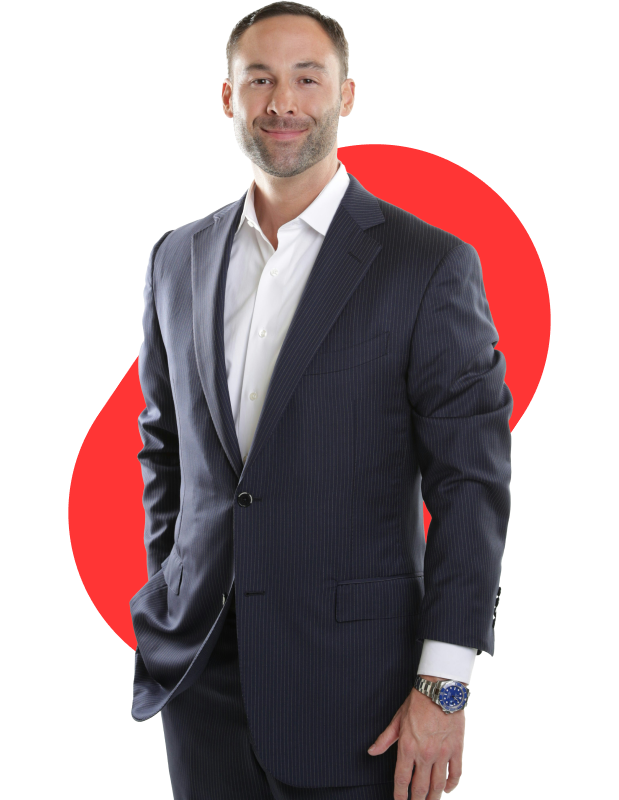
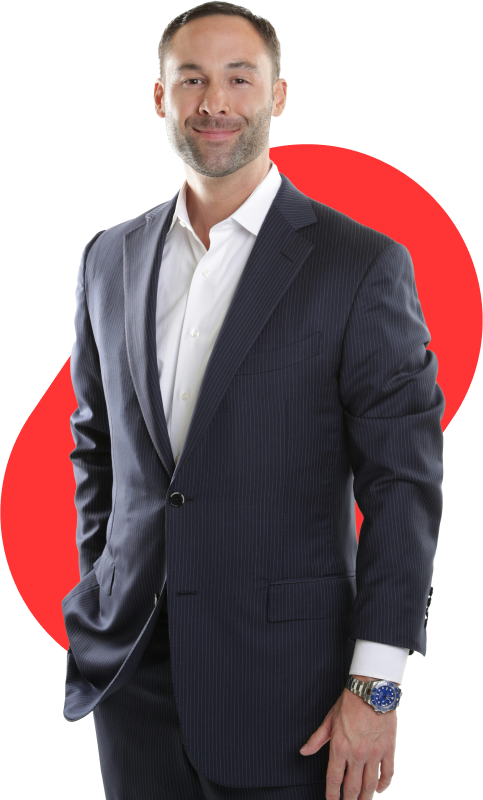
0725 금호건설 연혁

diff --git a/kumho/contents/ceo.html b/kumho/contents/ceo.html
@@ -143,19 +143,16 @@
                             </div>
                             <div class="txt">
                                 <p>
-                                    금호건설은 1967년 역사를 시작하여 반세기가 넘는 시간 동안대한민국 건설역사를 함께 만들어 온 국내 대표 건설사입니다.<br>
+                                    금호건설은 1967년 역사를 시작하여 반세기가 넘는 시간 동안 대한민국 건설역사를 함께 만들어 온 국내 대표 건설사입니다.<br>
                                     <br>
-                                    주거브랜드인 어울림, 리첸시아를 비롯하여 건축, 토목, 플랜트, 환경에 이르기까지 시공 전 분야에서
-                                    다양한 포트폴리오를 구성하며 고객 만족과 함께 국가기반산업 확장에 기여하기 위해 노력해왔습니다.<br>
+                                    주거브랜드인 어울림, 리첸시아를 비롯하여 건축, 토목, 플랜트, 환경에 이르기까지 시공 전 분야에서 다양한 포트폴리오를 구성하며 고객 만족과 함께 국가기반산업 확장에 기여하기 위해 노력해왔습니다.<br>
                                     <br>
-                                    특히 공항 및 공항 기반시설 공사에서는 타의 추종을 불허하는 기술력으로 국내 대표적인 시설을
-                                    성공적으로 완공하였으며 두바이 신공항 및 아부다비 관제탑 등 해외에서도 괄목할만한 성과를 거두며해외시장 관계자들에게 극찬을 받은 바 있습니다.
-                                    또한 미래의 블루오션인 수처리 사업 분야에서도 고유의 기술력으로 시장을 선도하고 있으며,플랜트 분야에서도 지속적인 수주와 기술투자를 진행하며 지속가능한 회사를 만드는 데 주력하고 있습니다.<br>
+                                    특히 공항 및 공항 기반시설 공사에서는 타의 추종을 불허하는 기술력으로 국내 대표적인 시설을 성공적으로 완공하였으며 두바이 신공항 및 아부다비 관제탑 등 해외에서도 괄목할만한 성과를 거두며 해외시장 관계자들에게 극찬을 받은 바 있습니다.
+                                    또한 미래의 블루오션인 수처리 사업 분야에서도 고유의 기술력으로 시장을 선도하고 있으며, 플랜트 분야에서도 지속적인 수주와 기술투자를 진행하며 지속가능한 회사를 만드는 데 주력하고 있습니다.<br>
                                     <br>
                                     <strong>사랑하는 고객 여러분.</strong><br>
                                     <br>
-                                    저희는 시대변화에 발맞추어
-                                    모든 임직원들이 상호간에 공감과 감동을 교류할 수 있는 조직문화를 구축하는데 노력하고 있습니다.이를 통해 임직원 각자가 자발적으로 성과를 만들고 이것이 모여 더욱 “건실하고 강한 금호건설”로 성장할 것입니다.
+                                    저희는 시대변화에 발맞추어 모든 임직원들이 상호간에 공감과 감동을 교류할 수 있는 조직문화를 구축하는데 노력하고 있습니다. 이를 통해 임직원 각자가 자발적으로 성과를 만들고 이것이 모여 더욱 “건실하고 강한 금호건설”로 성장할 것입니다.
                                     변함없는 믿음과 사랑으로 지켜봐 주셨으면 합니다.<br>
                                     <br>
                                     더불어 잊지 않고 사회에 책임을 다하는 기업이 되도록 주변 이웃을 돌아보는 노력 또한 잊지 않겠습니다.<br>

diff --git a/kumho/css/common.css b/kumho/css/common.css
@@ -1,42 +1,48 @@
 
-/* 글자의 스타일은 상속받음. 기본 글자의 스타일은 모든 태그를 감싸는 html과 body에 선언
-폰트를 여러개를 사용.. 첫번째 폰트를 1순위로 적용. 만약 지원이 안되면 2순위 폰트를 적용
+/* 글자의 스타일은 상속받음. 기본글자의 스타일은 
+모든 태그를 감싸는 html body에 선언 
+폰트를 여러개를 선언... 첫번째 폰트를 1순위로 적용.. 만약 지원이 안되면 2순위 폰트를 적용
 영문만 지원하는 폰트를 1순위로 쓰고 2순위로 한글이 지원되는 서체를 선언
-영문, 숫자, 특수문자는 영문폰트가 적용, 나머지 한글은 한글폰트 적용 */
+영문,순자,특수문자는 영문 폰트가 적용, 나머지 한글은 한글 폰트 적용
+*/
 html, body {
     font-family: 'Philosopher', 'Pretendard', "nsr", "Malgun Gothic", "맑은 고딕", Dotum, 돋움, Helvetica, "Apple SD Gothic Neo", "애플 SD 산돌고딕 Neo", sans-serif;
-    /* 컨트롤 물음표 = 주석 */
     font-weight: 400;
     font-size: 16px;
-    line-height: 1.2; /* 배수 */
+    letter-spacing: 0; /* 자간 */
+    line-height: 1.2; /* 배수 - 글자크기에 1.4배 */
     color: #3d3d3d; /* 글자 색상 */
     word-break: keep-all; /* 단어별로 줄바꿈 */
-    word-wrap: break-word; /* 만약 단어가 엄청 길면 줄바꿈 강제로 실행 */
+    word-wrap: break-word; /* 만약 단어가 엄청 길면 강제로 줄바꿈 실행 */
 }
-/* 홈페이지 전체를 감싸는 요소 - 가로 스크롤바가 생겼을 때 배경이 잘리는 현상을 막음 */
-
+/* 홈페이지 전체를 감싸는 요소 - 
+   가로스크롤바가 생겼을때 배경이 짤리는 현상을 막음 */
+#wrap {
+    min-width: 1260px;
+    overflow: hidden;
+}
+/* 홈페이지의 넓이를 제한하고 가운데정렬 */
 .wrapper {
-    width: 1260px; /* 좌우 양쪽에 20px의 여백을 줌 1260 + 20 + 20 */
-    margin: 0 auto; /* 가운데 정렬 */
+    width: 1260px; 
+    margin: 0 auto; /* 가운데정렬 */
 }
-/* 1260px 나의 wrapper의 넓이에 좌우 여백 20px씩 추가한 사이즈부터 반응형 */
-
+/* 1260px 나의 wrapper의 넓이에 좌우 여백 20px씩 추가한 사이즈부터
+   반응형 */
 @media screen and (max-width:1300px){
-    html, body {
-        font-size: 14px;
+    #wrap {
+        min-width: 100%;
     }
     .wrapper {
-        width: calc(100% - 40px);
+        width: auto;
+        margin: 0 20px; /* 좌우에 20px */
     }
 }/* media */
-
 @media screen and (max-width:1024px){
     html, body {
         font-size: 14px;
     }
-}/* media */
-
-@media screen and (max-width:768px){ /* 모바일 반응형 */
+}
+@media screen and (max-width:640px){ /* 모바일 반응형 */
     html, body {
         font-size: 13px;
     }

diff --git a/animal/css/common.css b/animal/css/common.css
@@ -1,41 +1,52 @@
 
-/* 글자의 스타일은 상속받음. 기본 글자의 스타일은 모든 태그를 감싸는 html과 body에 선언 */
+/* 글자의 스타일은 상속받음. 기본글자의 스타일은 
+모든 태그를 감싸는 html body에 선언 
+폰트를 여러개를 선언... 첫번째 폰트를 1순위로 적용.. 만약 지원이 안되면 2순위 폰트를 적용
+영문만 지원하는 폰트를 1순위로 쓰고 2순위로 한글이 지원되는 서체를 선언
+영문,순자,특수문자는 영문 폰트가 적용, 나머지 한글은 한글 폰트 적용
+*/
 html, body {
-    font-family: 'Pretendard', sans-serif;
-    /* 컨트롤 물음표 = 주석 */
+    font-family: "Montserrat", "Pretendard", "Malgun Gothic", "맑은 고딕", Dotum, 돋움, Helvetica, "Apple SD Gothic Neo", "애플 SD 산돌고딕 Neo", sans-serif;
     font-weight: 400;
     font-size: 16px;
-    letter-spacing: -0.03em; /* 자간 */
-    line-height: 1.2; /* 배수 */
+    letter-spacing: 0; /* 자간 */
+    line-height: 1.2; /* 배수 - 글자크기에 1.4배 */
     color: #3d3d3d; /* 글자 색상 */
     word-break: keep-all; /* 단어별로 줄바꿈 */
-    word-wrap: break-word; /* 만약 단어가 엄청 길면 줄바꿈 강제로 실행 */
+    word-wrap: break-word; /* 만약 단어가 엄청 길면 강제로 줄바꿈 실행 */
 }
-/* 홈페이지 전체를 감싸는 요소 - 가로 스크롤바가 생겼을 때 배경이 잘리는 현상을 막음 */
-
+/* 홈페이지 전체를 감싸는 요소 - 
+   가로스크롤바가 생겼을때 배경이 짤리는 현상을 막음 */
+#wrap {
+    min-width: 1260px;
+    overflow: hidden;
+}
+/* 홈페이지의 넓이를 제한하고 가운데정렬 */
 .wrapper {
-    width: 1260px; /* 좌우 양쪽에 20px의 여백을 줌 1260 + 20 + 20 */
-    margin: 0 auto; /* 가운데 정렬 */
+    width: 1260px; 
+    margin: 0 auto; /* 가운데정렬 */
 }
-/* 1260px 나의 wrapper의 넓이에 좌우 여백 20px씩 추가한 사이즈부터 반응형 */
-
+/* 1260px 나의 wrapper의 넓이에 좌우 여백 20px씩 추가한 사이즈부터
+   반응형 */
 @media screen and (max-width:1300px){
-    html, body {
-        font-size: 14px;
+    #wrap {
+        min-width: 100%;
     }
     .wrapper {
-        width: calc(100% - 40px);
+        width: auto;
+        margin: 0 20px; /* 좌우에 20px */
     }
 }/* media */
-
 @media screen and (max-width:1024px){
     html, body {
         font-size: 14px;
     }
-}/* media */
-
+}
 @media screen and (max-width:640px){ /* 모바일 반응형 */
     html, body {
         font-size: 13px;
     }
 }/* media */
+
+/*클릭하는 요소 a button - focus가 되었을 때 스타일 변경*/
+

diff --git a/kumho/contents/history.html b/kumho/contents/history.html
@@ -114,7 +114,7 @@
                         <ol>
                             <li class="home"><a href="../index.html">홈</a></li>
                             <li><a href="info.html">회사소개</a></li>
-                            <li class="now"><a href="ceo.html">연혁</a></li>
+                            <li class="now"><a href="history.html">연혁</a></li>
                         </ol>
                     </div><!--breadcrumb-->
                 </div>
@@ -127,10 +127,24 @@
                         <p>금호건설의 집념과 도전의 반세기 역사를 소개합니다.</p>
                     </div>
                 </div>
-                <div class="cts_ceo">
+                <div class="cts_history">
                     <!--각 페이지의 콘텐츠 클래스 네이밍 규칙
                         cts_페이지 html 파일명(cts - contents 약자)-->
-
+                    <div class="wrapper">
+                        <div class="tab_area">
+                            <div class="tab_btn">
+                                <ul role="tablist">
+                                    <li id="tab_01" aria-selected="true" aria-controls="panel_01" class="active"><button><span>현재 - 2011</span></button></li>
+                                    <li id="tab_02" aria-selected="false" aria-controls="panel_02"><button><span>2010 - 2001</span></button></li>
+                                </ul>
+                            </div><!--tab_btn-->
+                            <div class="tab_cnt">
+                                <div id="panel_01" role="tabpanel" aria-labelledby="tab_01">
+                                
+                                </div><!--panel_login_01-->
+                            </div><!--tab_cnt-->
+                        </div>
+                    </div><!--wrapper-->
                 </div>
             </div><!--sub_contents-->
         </main>

diff --git a/kumho/css/sub.css b/kumho/css/sub.css
@@ -12,7 +12,7 @@
 
 /*회사소개 - CEO인사말*/
 .cts_ceo {
-    margin: 135px 0 360px 0;
+    margin: 135px 0 262px 0;
 }
 .cts_ceo .wrapper {
     display: flex;
@@ -26,10 +26,10 @@
 .cts_ceo .photo_wrap img {
     width: 100%;
     height: 100%;
-    object-fit: cover;
+    object-fit: contain;
 }
 .cts_ceo .txt_wrap {
-    width: 48.8%;
+    width: calc(100% - 541px);
 }
 .cts_ceo .tit span {
     font-size: 24px;
@@ -37,6 +37,7 @@
 .cts_ceo .tit {
     margin-bottom: 91px;
     font-weight: 700;
+    color: #1d1d1d;
 }
 .cts_ceo .txt {
     margin-bottom: 113px;
@@ -45,9 +46,28 @@
     font-weight: 700;
 }
 .cts_ceo .sign {
-    text-align: right;
+    display: flex;
+    justify-content: flex-end;
+    align-items: center;
+}
+.cts_ceo .sign span {
+    margin-left: 15px;
 }
 
+@media screen and (max-width:1300px) {
+    .cts_ceo .txt_wrap {
+        width: calc(100% - 520px);
+        margin-left: 20px;
+    }
+}
+@media screen and (max-width:1024px) {
+    .cts_ceo .txt_wrap {
+        width: calc(100% - 386px);
+    }
+    .cts_ceo .tit span {
+        font-size: 20px;
+    }
+}
 @media screen and (max-width:768px) {
     .cts_ceo .wrapper {
         display: block;
@@ -57,8 +77,6 @@
     }
     .cts_ceo .txt_wrap {
         width: auto;
-    }
-    .cts_ceo .tit span {
-        font-size: 20px;
+        margin-left: 0;
     }
 }
